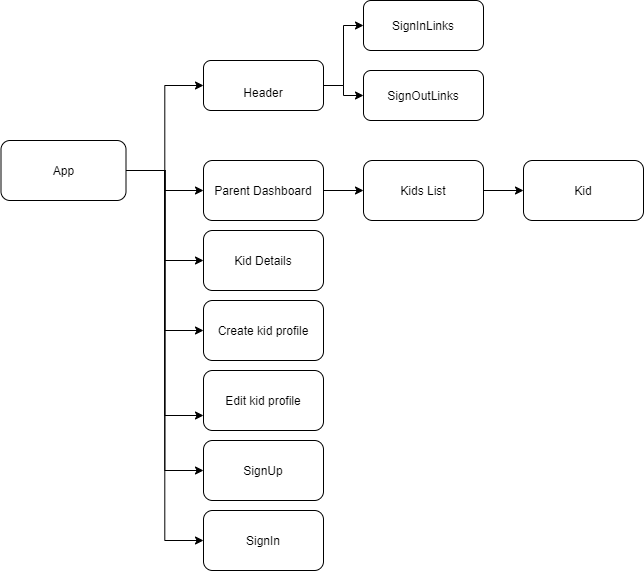
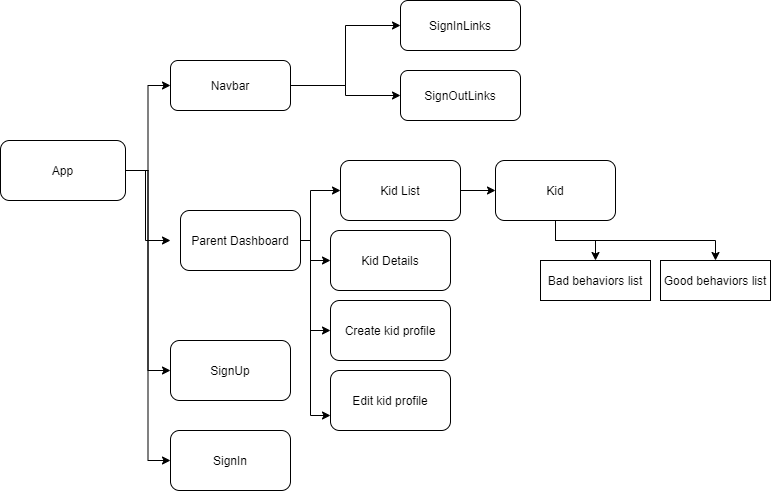
install redux-thunk and create authentication actions

diff --git a/src/actions/authActions.js b/src/actions/authActions.js
@@ -1,0 +1,48 @@
+  
+export const signIn = (credentials) => {
+  return (dispatch, getState, {getFirebase}) => {
+    const firebase = getFirebase();
+    
+    firebase.auth().signInWithEmailAndPassword(
+      credentials.email,
+      credentials.password
+    ).then(() => {
+      dispatch({ type: 'LOGIN_SUCCESS' });
+    }).catch((err) => {
+      dispatch({ type: 'LOGIN_ERROR', err });
+    });
+
+  }
+}
+
+export const signOut = () => {
+  return (dispatch, getState, {getFirebase}) => {
+    const firebase = getFirebase();
+
+    firebase.auth().signOut().then(() => {
+      dispatch({ type: 'SIGNOUT_SUCCESS' })
+    });
+  }
+}
+
+export const signUp = (newUser) => {
+  return (dispatch, getState, {getFirebase, getFirestore}) => {
+    const firebase = getFirebase();
+    const firestore = getFirestore();
+
+    firebase.auth().createUserWithEmailAndPassword(
+      newUser.email, 
+      newUser.password
+    ).then(resp => {
+      return firestore.collection('users').doc(resp.user.uid).set({
+        firstName: newUser.firstName,
+        lastName: newUser.lastName,
+        initials: newUser.firstName[0] + newUser.lastName[0]
+      });
+    }).then(() => {
+      dispatch({ type: 'SIGNUP_SUCCESS' });
+    }).catch((err) => {
+      dispatch({ type: 'SIGNUP_ERROR', err});
+    });
+  }
+}

diff --git a/src/index.js b/src/index.js
@@ -3,15 +3,21 @@ import ReactDOM from 'react-dom';
 import './index.css';
 import App from './App';
 import * as serviceWorker from './serviceWorker';
-import { createStore } from 'redux'
+import { createStore, applyMiddleware, compose } from 'redux'
 import rootReducer from './reducers/index'
 import { Provider } from 'react-redux';
-import { ReactReduxFirebaseProvider } from 'react-redux-firebase';
-import { createFirestoreInstance } from 'redux-firestore';
+import { createFirestoreInstance, reduxFirestore, getFirestore } from 'redux-firestore';
+import { ReactReduxFirebaseProvider, getFirebase } from 'react-redux-firebase';
+import thunk from 'redux-thunk'
 import firebase from "./firebase";
 import 'firebase/auth';
 
-const store = createStore(rootReducer, window.__REDUX_DEVTOOLS_EXTENSION__ && window.__REDUX_DEVTOOLS_EXTENSION__());
+const store = createStore(rootReducer,
+  compose(
+    applyMiddleware(thunk.withExtraArgument({ getFirestore, getFirebase })),
+    reduxFirestore(firebase),
+    window.__REDUX_DEVTOOLS_EXTENSION__ && window.__REDUX_DEVTOOLS_EXTENSION__()
+  ));
 
 const rrfProps = {
   firebase,

diff --git a/src/reducers/auth-reducer.js b/src/reducers/auth-reducer.js
@@ -1,4 +1,44 @@
-const authReducer = (state ={}, action)=>{
-  return state;
+const initState = {
+  authError: null
 }
+
+const authReducer = (state = initState, action) => {
+  switch(action.type){
+    case 'LOGIN_ERROR':
+      console.log('login error');
+      return {
+        ...state,
+        authError: 'Login failed'
+      }
+
+    case 'LOGIN_SUCCESS':
+      console.log('login success');
+      return {
+        ...state,
+        authError: null
+      }
+
+    case 'SIGNOUT_SUCCESS':
+      console.log('signout success');
+      return state;
+
+    case 'SIGNUP_SUCCESS':
+      console.log('signup success')
+      return {
+        ...state,
+        authError: null
+      }
+
+    case 'SIGNUP_ERROR':
+      console.log('signup error')
+      return {
+        ...state,
+        authError: action.err.message
+      }
+
+    default:
+      return state
+  }
+};
+
 export default authReducer;

diff --git a/src/Components/SignUp.js b/src/Components/SignUp.js
@@ -1,6 +1,8 @@
 import React from 'react'
+import { connect } from 'react-redux'
+import { signUp } from '../actions/authActions'
 
-class SignIn extends React.Component {
+class SignUp extends React.Component {
   state = {
     email:'',
     password:'',
@@ -15,7 +17,7 @@ class SignIn extends React.Component {
   }
   handleSubmit = (event) => {
     event.preventDefault();
-    console.log(this.state)
+    this.props.signUp(this.state);
   }
 
   render() {
@@ -51,4 +53,17 @@ class SignIn extends React.Component {
   }
 }
 
-export default SignIn
+const mapStateToProps = (state) => {
+  return {
+    auth: state.firebase.auth,
+    authError: state.auth.authError
+  }
+}
+
+const mapDispatchToProps = (dispatch)=> {
+  return {
+    signUp: (creds) => dispatch(signUp(creds))
+  }
+}
+
+export default connect(mapStateToProps, mapDispatchToProps)(SignUp)

diff --git a/src/Components/SignIn.js b/src/Components/SignIn.js
@@ -1,4 +1,6 @@
 import React from 'react'
+import { connect } from 'react-redux'
+import { signIn } from '../actions/authActions'
 
 class SignIn extends React.Component {
   state = {
@@ -13,7 +15,7 @@ class SignIn extends React.Component {
   }
   handleSubmit = (event) => {
     event.preventDefault();
-    console.log(this.state)
+    this.props.signIn(this.state)
   }
 
   render() {
@@ -41,4 +43,17 @@ class SignIn extends React.Component {
   }
 }
 
-export default SignIn
+const mapStateToProps = (state) => {
+  return{
+    authError: state.auth.authError,
+    auth: state.firebase.auth
+  }
+}
+
+const mapDispatchToProps = (dispatch) => {
+  return {
+    signIn: (creds) => dispatch(signIn(creds))
+  }
+}
+
+export default connect(mapStateToProps, mapDispatchToProps)(SignIn)

diff --git a/src/reducers/index.js b/src/reducers/index.js
@@ -2,11 +2,13 @@ import authReducer from './auth-reducer';
 import kidListReducer from './kidList-reducer'
 import { combineReducers } from 'redux';
 import { firestoreReducer } from 'redux-firestore';
+import { firebaseReducer } from 'react-redux-firebase';
 
 const rootReducer = combineReducers({
   auth: authReducer,
   kidList: kidListReducer,
-  firestore: firestoreReducer
+  firestore: firestoreReducer,
+  firebase: firebaseReducer
 })
 
 export default rootReducer;
